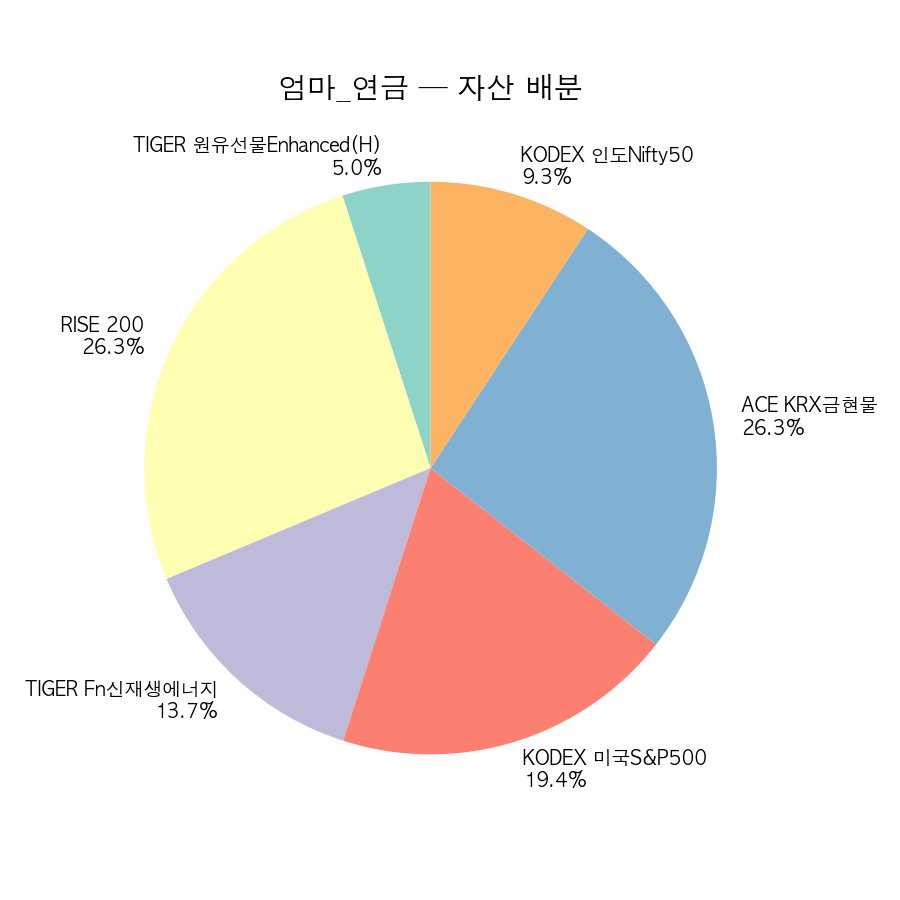
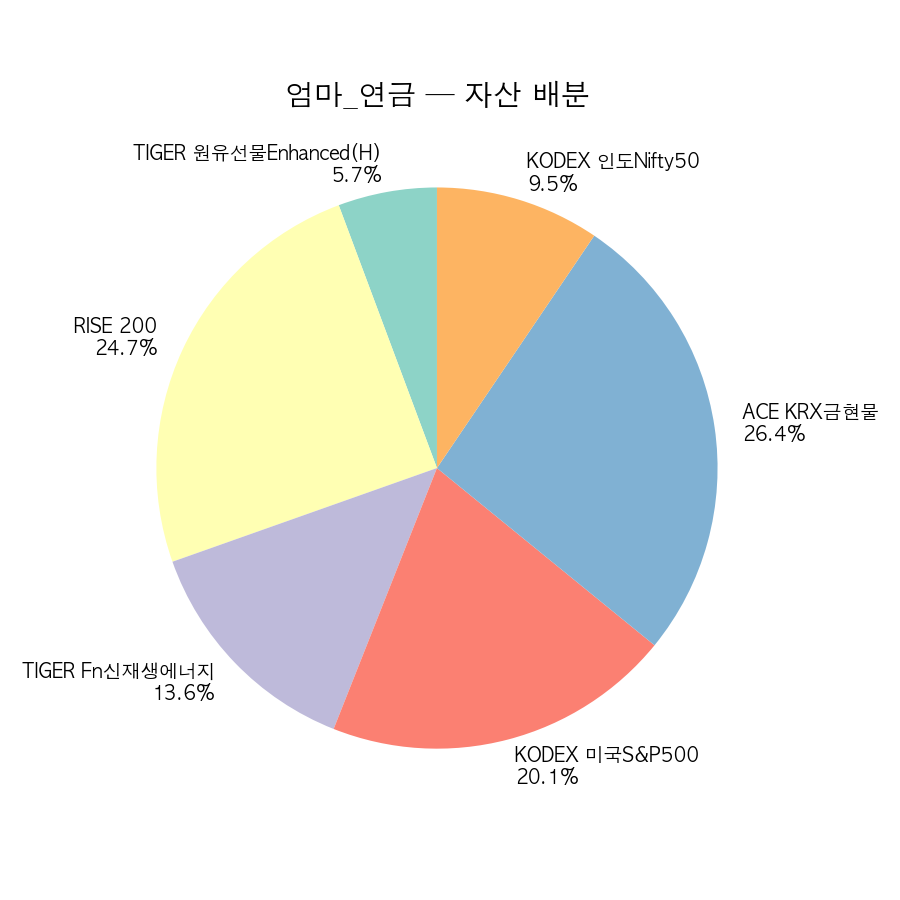
섹션별 주간 리포트 (자동 생성)

diff --git a/_posts/2026-07-17-etf-weekly-week15.md b/_posts/2026-07-17-etf-weekly-week15.md
@@ -1,0 +1,50 @@
+---
+layout: post
+title: "Week 15 — 부모님 연금 ETF 주간 리포트"
+date: 2026-07-17
+categories: [investing, etf]
+tags: [weekly]
+---
+
+> 부모님 연금저축 ETF 실험 — 15주차 기록.
+
+---
+
+## 15주차 성과
+
+### 엄마_연금
+
+| 종목 | 수량 | 평단가 | 종가 | 평가액 | 수익률 |
+|------|------|--------|------|--------|--------|
+| ACE KRX금현물 | 42주 | ₩30,882 | ₩27,335 | ₩1,148,070 | -11.5% |
+| RISE 200 | 9주 | ₩80,163 | ₩119,435 | ₩1,074,915 | +49.0% |
+| KODEX 미국S&P500 | 34주 | ₩22,947 | ₩25,730 | ₩874,820 | +12.1% |
+| TIGER Fn신재생에너지 | 24주 | ₩28,056 | ₩24,600 | ₩590,400 | -12.3% |
+| KODEX 인도Nifty50 | 32주 | ₩12,525 | ₩12,865 | ₩411,680 | +2.7% |
+| TIGER 원유선물Enhanced(H) | 41주 | ₩6,413 | ₩6,035 | ₩247,435 | -5.9% |
+
+**투자 ₩4,135,767 → 평가 ₩4,347,320 | +211,553원 (+5.1%)**
+
+예수금: ₩2,475,958
+---
+
+### 아빠_연금
+
+| 종목 | 수량 | 평단가 | 종가 | 평가액 | 수익률 |
+|------|------|--------|------|--------|--------|
+| ACE KRX금현물 | 42주 | ₩30,883 | ₩27,335 | ₩1,148,070 | -11.5% |
+| RISE 200 | 9주 | ₩80,165 | ₩119,435 | ₩1,074,915 | +49.0% |
+| KODEX 미국S&P500 | 34주 | ₩22,945 | ₩25,730 | ₩874,820 | +12.1% |
+| TIGER Fn신재생에너지 | 24주 | ₩28,048 | ₩24,640 | ₩591,360 | -12.1% |
+| KODEX 인도Nifty50 | 32주 | ₩12,535 | ₩12,865 | ₩411,680 | +2.6% |
+| TIGER 원유선물Enhanced(H) | 41주 | ₩6,405 | ₩6,035 | ₩247,435 | -5.8% |
+| PLUS 고배당주 | 1주 | ₩25,370 | ₩25,765 | ₩25,765 | +1.6% |
+
+**투자 ₩4,160,932 → 평가 ₩4,374,045 | +213,113원 (+5.1%)**
+
+예수금: ₩1,861,134
+
+
+---
+
+*데이터: 한국투자증권 KIS Open API / 2026-07-17 장 마감 기준*

diff --git a/_posts/2026-07-17-dividend-weekly-week15.md b/_posts/2026-07-17-dividend-weekly-week15.md
@@ -1,0 +1,32 @@
+---
+layout: post
+title: "Week 15 — ISA 배당 포트 주간 리포트"
+date: 2026-07-17
+categories: [investing, dividend]
+tags: [weekly]
+---
+
+> ISA 배당 포트폴리오 — 15주차 기록.
+
+---
+
+## 15주차 성과
+
+### 한투_ISA
+
+| 종목 | 수량 | 평단가 | 종가 | 평가액 | 수익률 |
+|------|------|--------|------|--------|--------|
+| 삼성화재우 | 5주 | ₩374,400 | ₩407,000 | ₩2,035,000 | +8.7% |
+| KT&G | 10주 | ₩168,190 | ₩176,600 | ₩1,766,000 | +5.0% |
+| 빙그레 | 25주 | ₩73,386 | ₩68,100 | ₩1,702,500 | -7.2% |
+| KODEX 고배당주 | 94주 | ₩18,052 | ₩17,955 | ₩1,687,770 | -0.5% |
+| 고려신용정보 | 175주 | ₩10,209 | ₩9,480 | ₩1,659,000 | -7.1% |
+
+**투자 ₩8,872,110 → 평가 ₩8,850,270 | -21,840원 (-0.2%)**
+
+예수금: ₩4,888
+
+
+---
+
+*데이터: 한국투자증권 KIS Open API / 2026-07-17 장 마감 기준*
